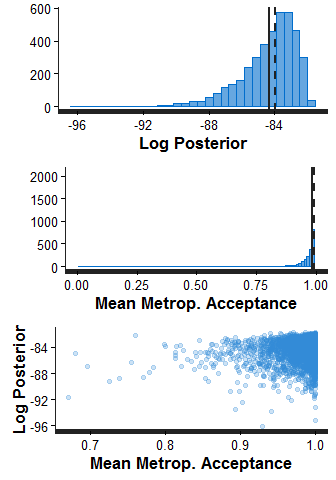
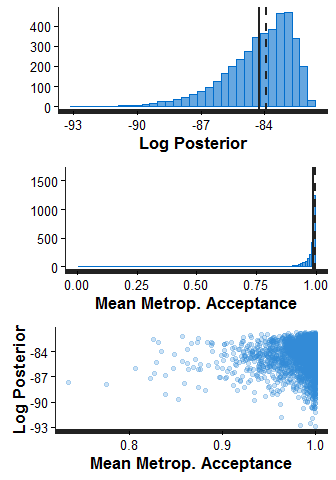
typo

diff --git a/analysis.md b/analysis.md
@@ -215,7 +215,7 @@ bf1 / bf2
 
     ## Bayes factor analysis
     ## --------------
-    ## [1] Year * Group : 1.250783 ±0.6%
+    ## [1] Year * Group : 1.244842 ±0.69%
     ## 
     ## Against denominator:
     ##   Age ~ Year 
@@ -256,9 +256,9 @@ bmdl <- stan_glm(Age~Year*Group, tbl,
     ## Chain 1, Iteration: 1600 / 2000 [ 80%]  (Sampling)
     ## Chain 1, Iteration: 1800 / 2000 [ 90%]  (Sampling)
     ## Chain 1, Iteration: 2000 / 2000 [100%]  (Sampling)
-    ##  Elapsed Time: 0.722 seconds (Warm-up)
-    ##                0.762 seconds (Sampling)
-    ##                1.484 seconds (Total)
+    ##  Elapsed Time: 0.723 seconds (Warm-up)
+    ##                0.658 seconds (Sampling)
+    ##                1.381 seconds (Total)
     ## 
     ## 
     ## SAMPLING FOR MODEL 'continuous' NOW (CHAIN 2).
@@ -275,9 +275,9 @@ bmdl <- stan_glm(Age~Year*Group, tbl,
     ## Chain 2, Iteration: 1600 / 2000 [ 80%]  (Sampling)
     ## Chain 2, Iteration: 1800 / 2000 [ 90%]  (Sampling)
     ## Chain 2, Iteration: 2000 / 2000 [100%]  (Sampling)
-    ##  Elapsed Time: 0.668 seconds (Warm-up)
-    ##                0.623 seconds (Sampling)
-    ##                1.291 seconds (Total)
+    ##  Elapsed Time: 0.729 seconds (Warm-up)
+    ##                0.907 seconds (Sampling)
+    ##                1.636 seconds (Total)
     ## 
     ## 
     ## SAMPLING FOR MODEL 'continuous' NOW (CHAIN 3).
@@ -294,9 +294,9 @@ bmdl <- stan_glm(Age~Year*Group, tbl,
     ## Chain 3, Iteration: 1600 / 2000 [ 80%]  (Sampling)
     ## Chain 3, Iteration: 1800 / 2000 [ 90%]  (Sampling)
     ## Chain 3, Iteration: 2000 / 2000 [100%]  (Sampling)
-    ##  Elapsed Time: 0.75 seconds (Warm-up)
-    ##                0.619 seconds (Sampling)
-    ##                1.369 seconds (Total)
+    ##  Elapsed Time: 0.683 seconds (Warm-up)
+    ##                0.648 seconds (Sampling)
+    ##                1.331 seconds (Total)
     ## 
     ## 
     ## SAMPLING FOR MODEL 'continuous' NOW (CHAIN 4).
@@ -313,9 +313,9 @@ bmdl <- stan_glm(Age~Year*Group, tbl,
     ## Chain 4, Iteration: 1600 / 2000 [ 80%]  (Sampling)
     ## Chain 4, Iteration: 1800 / 2000 [ 90%]  (Sampling)
     ## Chain 4, Iteration: 2000 / 2000 [100%]  (Sampling)
-    ##  Elapsed Time: 0.843 seconds (Warm-up)
-    ##                0.557 seconds (Sampling)
-    ##                1.4 seconds (Total)
+    ##  Elapsed Time: 0.799 seconds (Warm-up)
+    ##                1.258 seconds (Sampling)
+    ##                2.057 seconds (Total)
 
 We can summarize the fitted model and plot the posterior density over the parameters:
 
@@ -335,9 +335,9 @@ bmdl
     ## 
     ## Estimates:
     ##                  Median MAD_SD
-    ## (Intercept)      -91.6  114.6 
+    ## (Intercept)      -98.0  117.1 
     ## Year               0.1    0.1 
-    ## Group>=1995        1.0    8.4 
+    ## Group>=1995        0.9    8.5 
     ## Year:Group>=1995   0.0    0.0 
     ## sigma              2.2    0.3 
     ## 
@@ -348,7 +348,7 @@ bmdl
     ## 
     ## Observations: 33  Number of unconstrained parameters: 5
 
-Comparing the fitted model to the frequentist models above shows that the posterior median of the linear effect of Year (0.103) is similar to the estimated value above (0.153), but shrunken towards zero by the prior. The posterior density on the interaction term is centered around zero during inference, arguing that there is little evidence of a different slope after 1995. There is a small effect of the interaction term on the y-intercept, increasing the estimated y-intercept by 900. This is likely an artefact of the model parametrization.
+Comparing the fitted model to the frequentist models above shows that the posterior median of the linear effect of Year (0.106) is similar to the estimated value above (0.153), but shrunken towards zero by the prior. The posterior density on the interaction term is centered around zero during inference, arguing that there is little evidence of a different slope after 1995. There is a small effect of the interaction term on the y-intercept, increasing the estimated y-intercept by 900. This is likely an artefact of the model parametrization.
 
 ``` r
 draws <- as.data.frame(as.matrix(bmdl))
@@ -381,6 +381,8 @@ We check certain properties of the Bayesian fitting procedures graphically:
 ``` r
 stan_diag(bmdl)
 ```
+
+    ## Warning: Removed 1 rows containing missing values (geom_bar).
 
 ![](analysis_files/figure-markdown_github/unnamed-chunk-8-1.png)
 
@@ -428,7 +430,7 @@ The fitted model has a slope of 0.121 years for years before 1995 (their slope =
 
     ## Bayes factor analysis
     ## --------------
-    ## [1] Year * Group : 8.843183 ±1.25%
+    ## [1] Year * Group : 8.756212 ±1.03%
     ## 
     ## Against denominator:
     ##   Age ~ Year 
